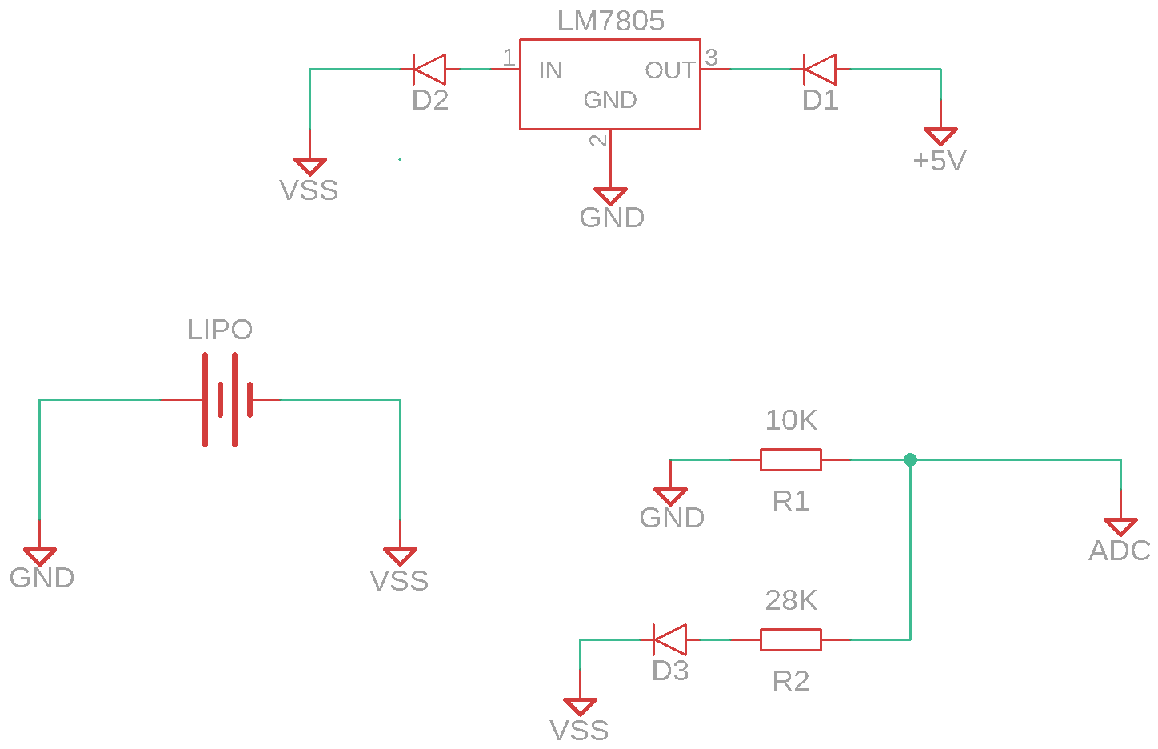
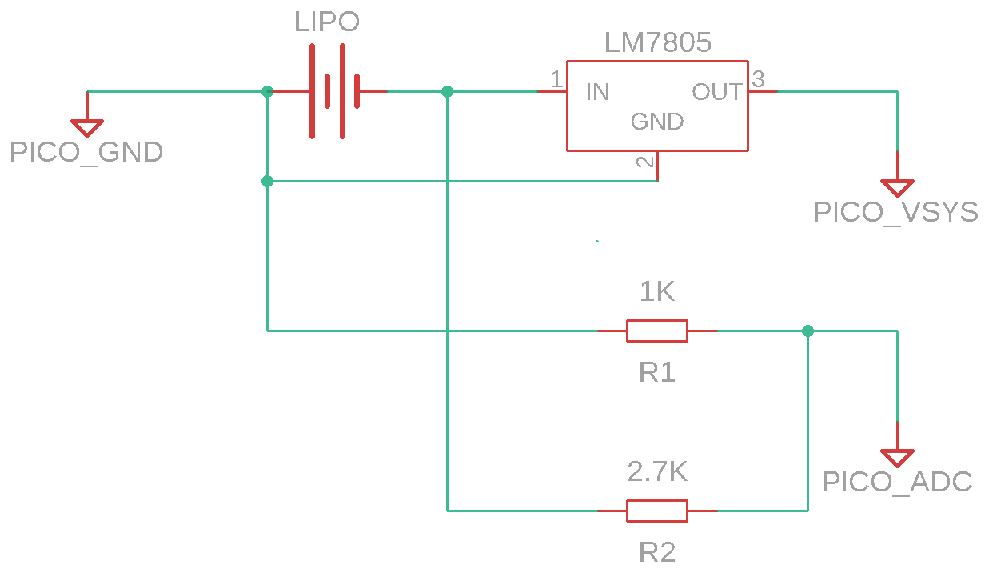
added adc investigation summary and simplified schematic

diff --git a/docs/planning/2025-11-03-adc-investigation-summary.md b/docs/planning/2025-11-03-adc-investigation-summary.md
@@ -1,0 +1,76 @@
+# ADC Investigation Summary — 2025-11-03
+
+## Issue
+
+When the battery voltage divider is connected to the Pico ADC input, the ADC reading is much lower than expected (initially near 0 V, later ~1.3–1.8 V depending on wiring). When the divider is disconnected, the divider measures correctly (open-circuit midpoint ≈ expected value). The problem occurs only when the Pico and divider share the same supply.
+
+## Short reproduction
+
+1. Divider: R_top = 2.7 kΩ, R_bottom = 1.0 kΩ, Vin = 9 V → expected Vmid ≈ 2.4–2.5 V.
+2. With divider alone (no Pico connected): Vmid ≈ 2.5 V (OK).
+3. Power Pico from 9 V → regulator → 5 V → Pico; connect divider mid to ADC pin.
+4. Vmid collapses (varied during debugging): initially ~0 V, later ~0.7 V, and after changes settles to ~1.8–2.1 V depending on pin and wiring.
+
+## What we've tried
+
+- Removed legacy timer-based `ADCSampler` code (clean-up).
+- Reviewed `DMAADCSampler::init()` to ensure ADC GPIO pulls are disabled (it already calls `gpio_disable_pulls()` before `adc_gpio_init()`).
+- Added `gpio_disable_pulls()` earlier to legacy code path while debugging.
+- Moved ADC pin in software from GP26 (ADC0) to GP27 (ADC1) for isolation testing (updated `lib/adc_config.h`).
+- Removed some diodes from regulator path as an experiment.
+- Performed series-resistor isolation tests (1 kΩ, 10 kΩ) to evaluate where the load is.
+
+## Key measurements (selected)
+
+- Divider alone: Vin = 9 V → Vmid ≈ 2.5 V.
+- With Pico powered from same supply and divider connected to ADC (various pins):
+  - On GP27: Vmid ≈ 2.1 V, Vpin ≈ 1.3 V.
+  - Equivalent load inferred on ADC net: ≈ 1–3 kΩ to ground (explains the ~0.7–1.2 V drop from expected Vmid).
+- Unpowered checks: ADC pad measured >1 MΩ to ground (no hard short when unpowered).
+- Diode/diode-mode tests under power show diode-like conduction mid→GND ≈ 0.6 V in some cases (indicating a powered clamp/protection element conducts under certain conditions).
+- Series resistor (1 kΩ) between mid and ADC: partial recovery of Vmid, confirming the load is on Pico/board side.
+
+## Inferred cause
+
+- A powered-on conductive path on the Pico/board is loading the divider node to ground (or another rail) with an equivalent resistance in the kilo-ohm range when the Pico is powered from the same regulator. This path behaves like a diode/network when powered — i.e., it is not a simple passive short detectable when unpowered.
+
+Possible specific culprits:
+- On-board clamp/protection diodes, level-shifter or ESD networks on the connector that become conductive under power.
+- Regulator wiring or diodes that create a back-path or clamp to ground when powered.
+- A miswired net or pull resistor tied to the ADC net on the board.
+- Less likely: MCU pin configured as output/pull-down by firmware (code already calls gpio_disable_pulls); or a damaged MCU pad (unpowered checks argue against this).
+
+## Files changed (for traceability)
+
+- Removed: `lib/adc_sampler.cpp`, `lib/adc_sampler.h` (legacy timer sampler removed).
+- Edited: `lib/adc_config.h` (ADC_GPIO changed from 26 → 27, ADC_CHANNEL 0 → 1 for isolation testing).
+- No changes made to `lib/dma_adc_sampler.*` beyond code review.
+
+## Recommended next steps
+
+Short-term diagnostics
+
+- Insert a 10 kΩ series resistor between divider mid and ADC pin and measure both sides (pre/post resistor). If Vmid stays ~2.5 V and Vpin remains low, the clamp is on the Pico/board side.
+- Power the Pico from a separate supply temporarily — if the problem disappears, it confirms the clamp is power-path dependent (already observed in earlier tests).
+- Use the MCU to actively drive the ADC pin high (as a temporary firmware test). If the MCU can drive the pin to 3.3 V, the issue is not a hard short but an external clamp/pull; if it can't, the clamp is very low impedance.
+
+Medium-term fixes
+
+- Inspect and remove/rework any protection diodes or level shifters on the ADC net that are in the DC path of the divider node. Protection networks should be arranged in parallel to rails, not in series with divider return.
+- If the offending component is part of the regulator or board connector and cannot be removed, either route the divider to another ADC pin that is free of the load (e.g., GP27 if that tests clean), or buffer the divider midpoint with a unity-gain op-amp before the ADC.
+- As a temporary software/hardware workaround, lower the divider impedance (smaller resistor values) so divider source resistance << the observed ~2 kΩ load. This wastes power but reduces measurement error until the root cause is fixed.
+
+## Recommended post-fix tests
+
+- With the suspected clamp removed, verify: Vmid ≈ expected (divider alone), Vmid ≈ expected when connected to ADC, ADC readings match multimeter.
+- Confirm that ADC pad measures high impedance to ground when unpowered.
+- Re-run series resistor test to ensure any remaining loading is negligible.
+
+---
+
+If you want I can also:
+- Create a small test UF2 that prints GPIO/ADC pin function and toggles the pin (to prove whether the MCU can drive the pin high). I can build this and provide the binary for you to flash.
+- Draft a one-page annotated schematic suggestion showing which diodes/clamps to remove or re-route.
+
+
+*Prepared by: debugging session with the airsoft-display repo (branch: fix/adc-zero) — 2025-11-03*
